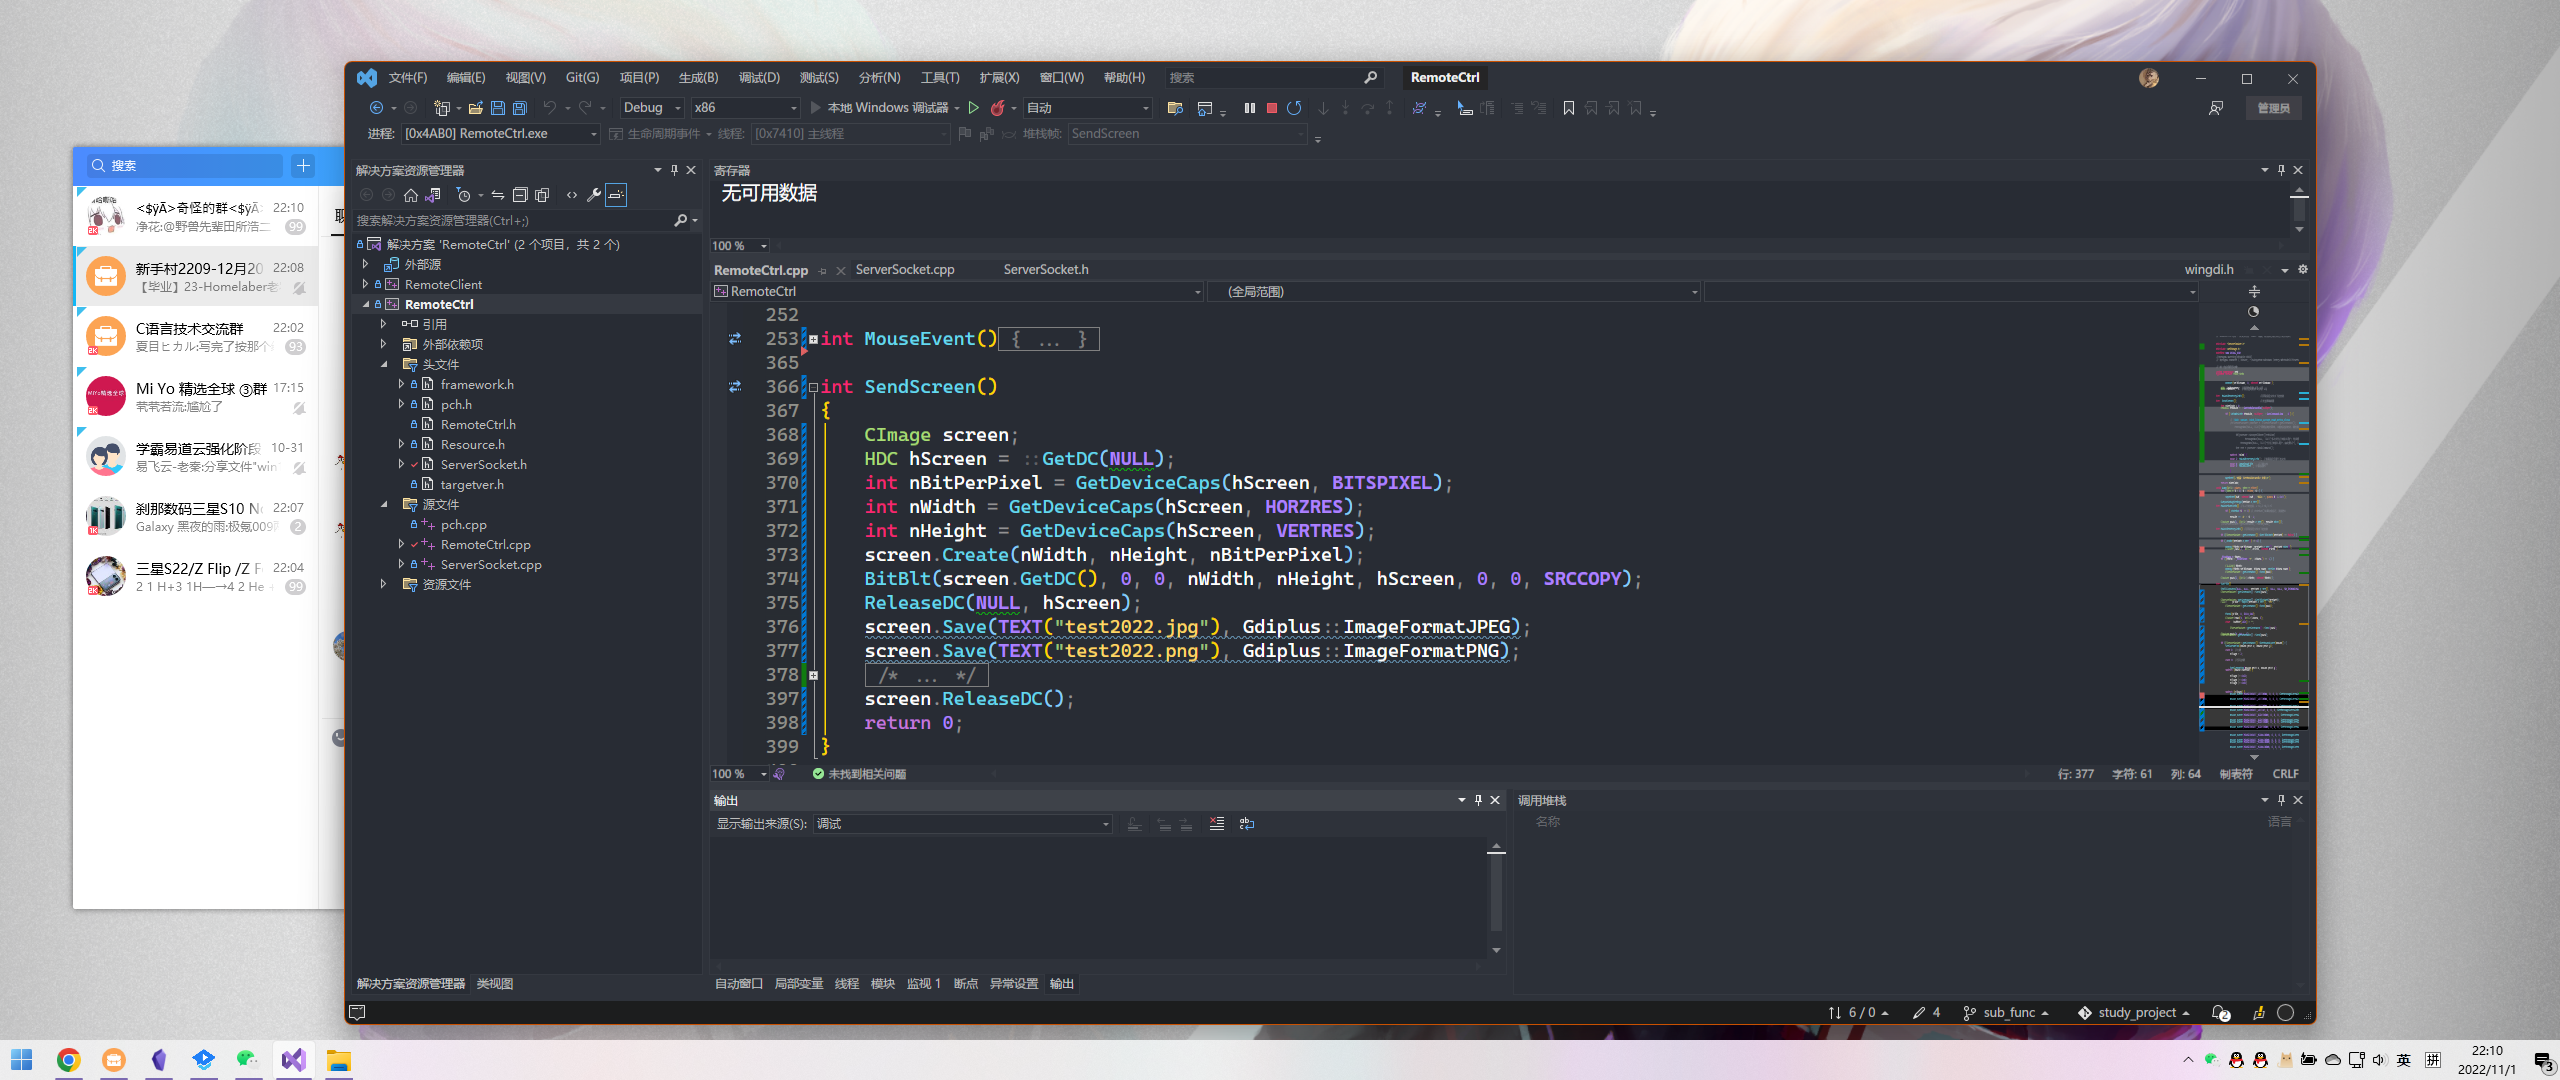
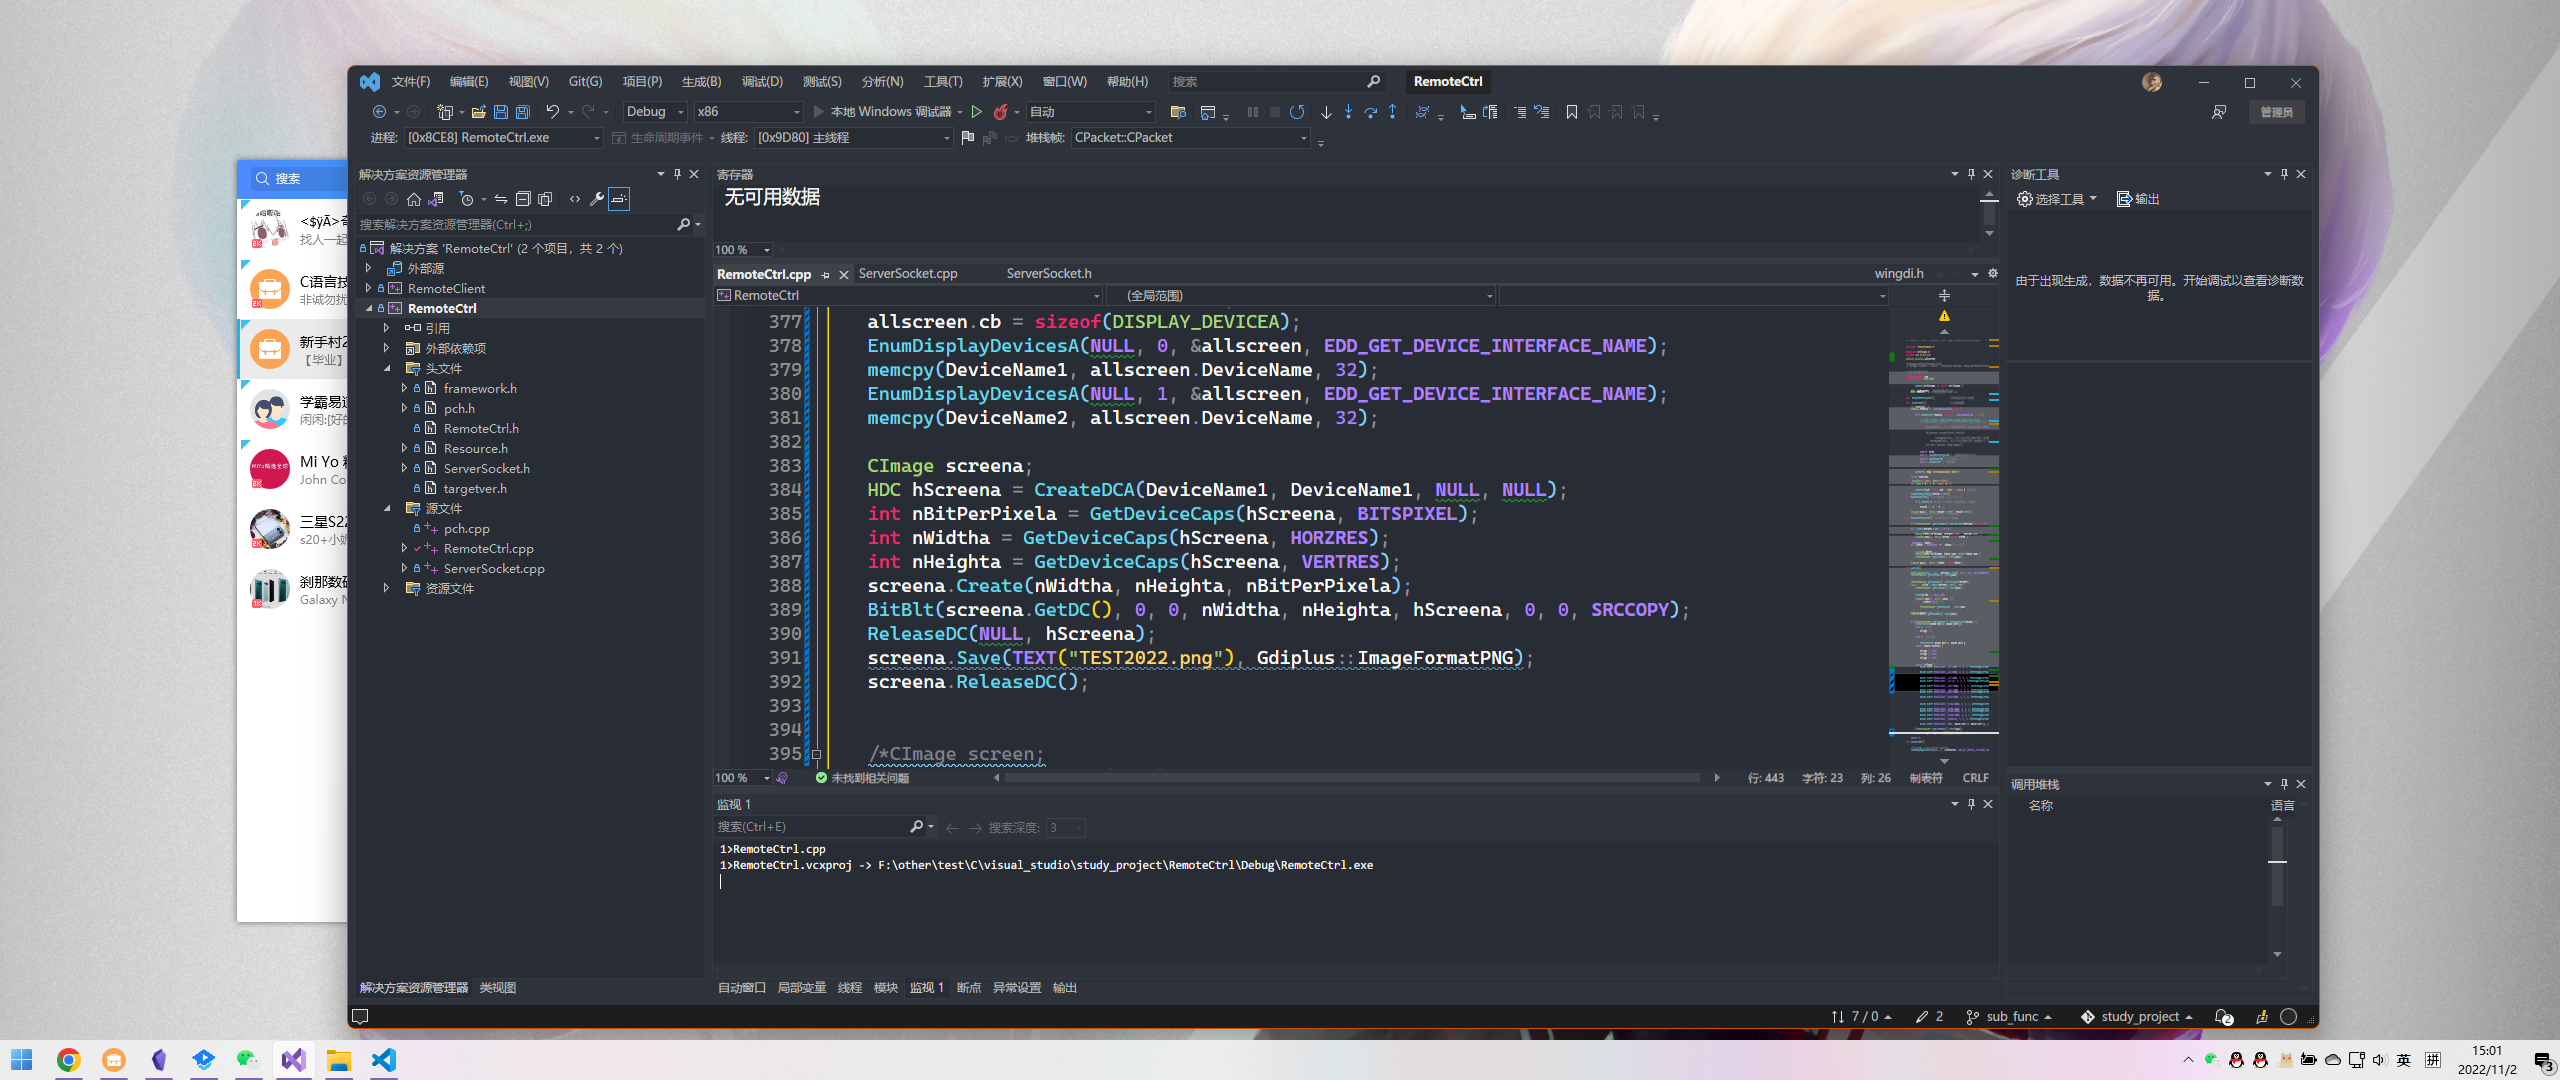
添加多屏幕截图测试代码

diff --git a/RemoteCtrl/RemoteCtrl/RemoteCtrl.cpp b/RemoteCtrl/RemoteCtrl/RemoteCtrl.cpp
@@ -16,6 +16,10 @@
 #endif
 
 
+
+
+
+
 //#pragma warning(disable:4966)
 
 // #pragma comment ( linker, "/subsystem:windows /entry:WinMainCRTStartup" )
@@ -363,8 +367,34 @@ int MouseEvent()
 	return 0;
 }
 
+
 int SendScreen()
 {
+	//
+	// 获取多屏幕截图
+	//
+	/*DISPLAY_DEVICEA allscreen = new DISPLAY_DEVICEA;
+	CHAR   DeviceName1[32] = { 0 };
+	CHAR   DeviceName2[32] = { 0 };
+	allscreen = { 0 };
+	//llscreen = new DISPLAY_DEVICEA;
+	allscreen.cb = sizeof(DISPLAY_DEVICEA);
+	EnumDisplayDevicesA(NULL, 0, &allscreen, EDD_GET_DEVICE_INTERFACE_NAME);
+	memcpy(DeviceName1, allscreen.DeviceName, 32);
+	EnumDisplayDevicesA(NULL, 1, &allscreen, EDD_GET_DEVICE_INTERFACE_NAME);
+	memcpy(DeviceName2, allscreen.DeviceName, 32);
+
+	CImage screena;
+	HDC hScreena = CreateDCA(DeviceName2, DeviceName2, NULL, NULL);
+	int nBitPerPixela = GetDeviceCaps(hScreena, BITSPIXEL);
+	int nWidtha = GetDeviceCaps(hScreena, HORZRES);
+	int nHeighta = GetDeviceCaps(hScreena, VERTRES);
+	screena.Create(nWidtha, nHeighta, nBitPerPixela);
+	BitBlt(screena.GetDC(), 0, 0, nWidtha, nHeighta, hScreena, 0, 0, SRCCOPY);
+	ReleaseDC(NULL, hScreena);
+	screena.Save(TEXT("abc2022.png"), Gdiplus::ImageFormatPNG);
+	screena.ReleaseDC();*/
+
 	CImage screen;
 	HDC hScreen = ::GetDC(NULL);
 	int nBitPerPixel = GetDeviceCaps(hScreen, BITSPIXEL);
@@ -374,11 +404,12 @@ int SendScreen()
 	BitBlt(screen.GetDC(), 0, 0, nWidth, nHeight, hScreen, 0, 0, SRCCOPY);
 	ReleaseDC(NULL, hScreen);
 	HGLOBAL hMme = GlobalAlloc(GMEM_MOVEABLE, 0);
-	IStream* pStream = NULL;
-	HRESULT ret = CreateStreamOnHGlobal(hMme, TRUE, &pStream);
 	if (hMme == NULL) {
 		return -1;
 	}
+	IStream* pStream = NULL;
+	HRESULT ret = CreateStreamOnHGlobal(hMme, TRUE, &pStream);
+	
 	if (ret == S_OK) {
 		screen.Save(pStream, Gdiplus::ImageFormatJPEG);
 		LARGE_INTEGER bg = { 0 };
@@ -388,8 +419,8 @@ int SendScreen()
 		CPacket pack(6, NULL, nSize);
 		CServerSocket::getInstance()->Send(pack);
 		GlobalUnlock(hMme);
-		
 	}
+
 	// screen.Save(TEXT("test2022.jpg"), Gdiplus::ImageFormatJPEG);
 	// screen.Save(TEXT("test2022.png"), Gdiplus::ImageFormatPNG);
 	/*int avg1 = 0, avg2 = 0;
@@ -411,6 +442,7 @@ int SendScreen()
 
 	TRACE("PNG %d\n", avg1 / 100);
 	TRACE("JPG %d\n", avg2 / 100);*/
+
 	pStream->Release();
 	GlobalFree(hMme);
 	screen.ReleaseDC();
